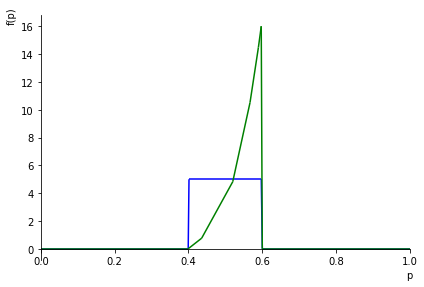
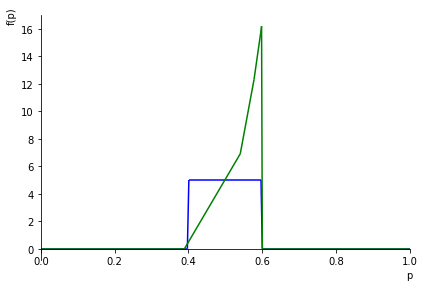
Fix some typos.

diff --git a/_posts/2022-04-26-Beta-Distribution-and-Unfair-Coins.md b/_posts/2022-04-26-Beta-Distribution-and-Unfair-Coins.md
@@ -20,7 +20,7 @@ It seems like this is evidence that the coin is not fair, but it's not obvious w
 $$ P(H|D) = {P(D | H) \cdot P(H) \over P(D)} $$
 {% endraw %}
 
-Here $D$ is our data, that it came up heads 20 times. $H$ is, hrm, $p={1\over 2}$? So then we can compute the likelihood in the usual way:
+Here $D$ is our data, that it came up heads 15 times. $H$ is, hrm, $p={1\over 2}$? So then we can compute the likelihood in the usual way:
 {% raw %}
 $$ P\left(D \; \middle | \; p=\frac{1}{2}\right)=p^{15} (1 - p)^5 {20 \choose 15} = \left({1 \over 2} \right)^{20} {20 \choose 15}\approx 0.015 $$
 {% endraw %}
@@ -170,7 +170,7 @@ p, N = symbols("p N")
 likelihood = sympy.binomial(20, 15) * p** 15 * (1-p)**5
 P_D = integrate(prior * likelihood_D, (p, 0, 1))
 p1 = plot(prior, xlim=[0,1], ylim=[0, 5], show=False, line_color='b')
-p2 = plot(likelihood_D * prior / P_D, show=False, line_color='g')
+p2 = plot(likelihood * prior / P_D, show=False, line_color='g')
 p1.append(p2[0])
 p1.show()
 ```
